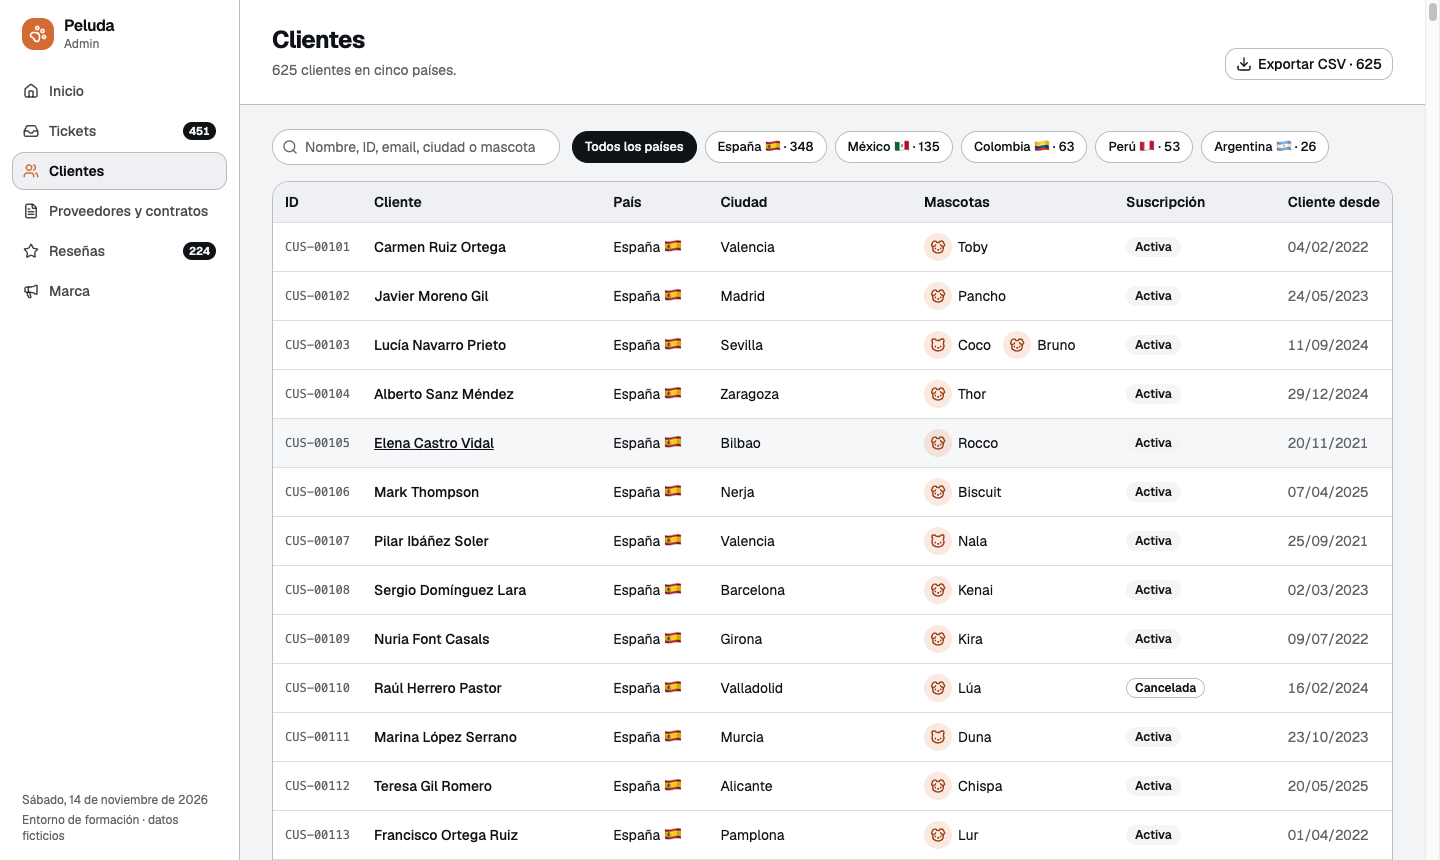
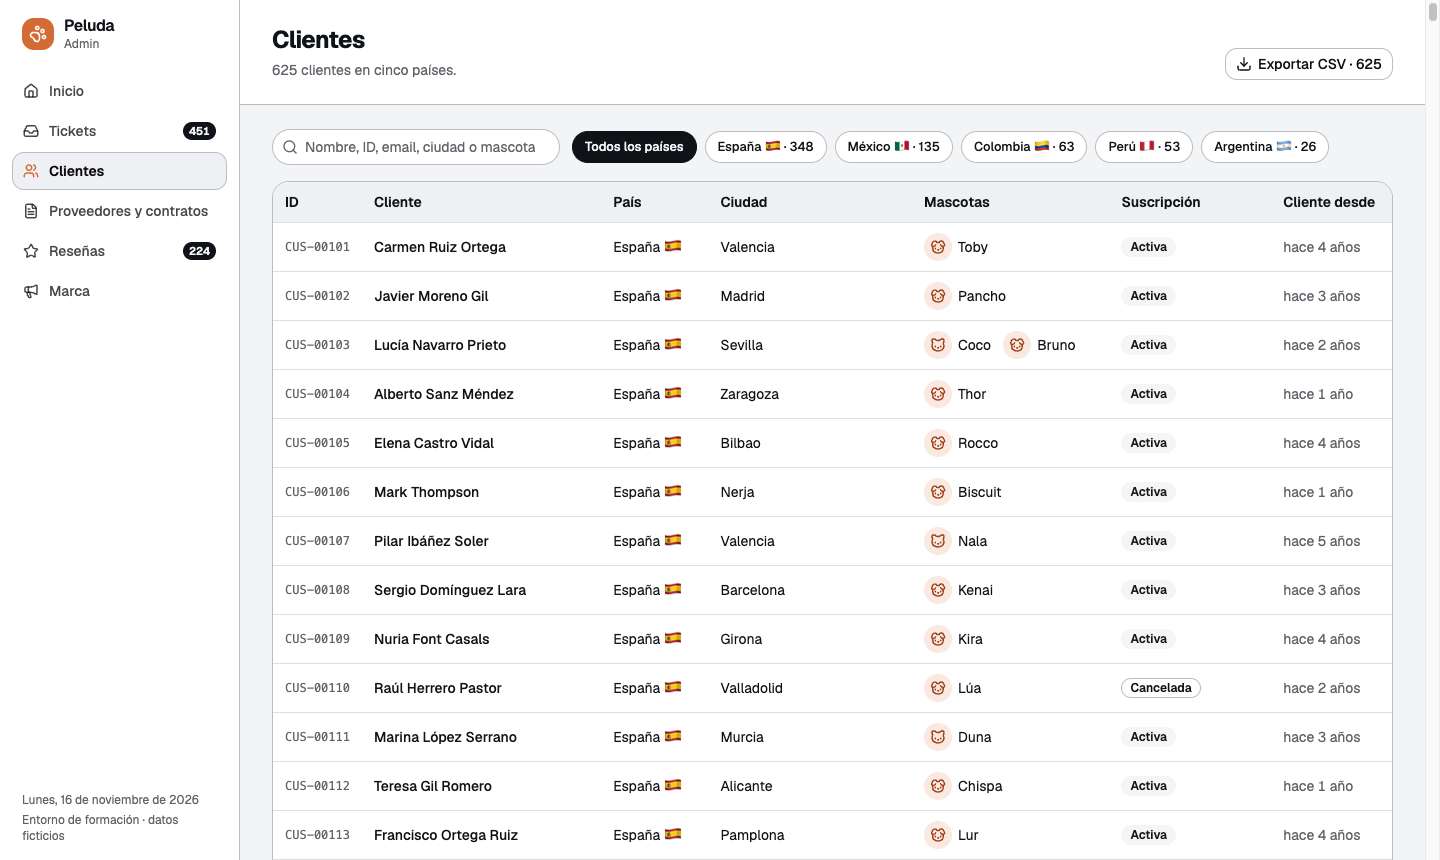
docs: follow the CMS relative dates in session 1
Retake the six CMS captures (relative times, last-24-hours filter, dateless
ticket IDs) and point the notes at the «Últimas 24 h» filter (201 tickets)
and TCK-0009, which no longer changes with the day.

diff --git a/session-1/01-two-prompts.md b/session-1/01-two-prompts.md
@@ -18,7 +18,7 @@ layout: two-cols
 ## Prompt de una línea
 
 ```text
-📎 peluda-tickets-hoy.csv
+📎 peluda-tickets-ultimas-24h.csv
 
 Clasifica estos tickets.
 ```
@@ -30,7 +30,7 @@ Clasifica estos tickets.
 ## Prompt estructurado
 
 ```text
-📎 peluda-tickets-hoy.csv
+📎 peluda-tickets-ultimas-24h.csv
 
 <rol>Responsable de atención al cliente</rol>
 <contexto>Suscripción cada 4 semanas, 3 planes.
@@ -45,7 +45,7 @@ Categorías: Envío, Facturación… Urgencia: Alta…</formato>
 
 <!--
 Prompt A (probado el 14/11 con Opus 5.5, 151 tickets): lo hace bien, pero con SU esquema. Avisa: «No tenías un esquema propio, así que he usado este». 4 prioridades (Urgente/Alta/Normal/Baja) y ~25 categorías inventadas (Retención, Nutrición, Datos RGPD…): mañana serán otras, no se pueden contar ni comparar. Y cae en la trampa del 0009: lo junta con el 0033 como «fallo en una tanda de cobros», cuando Lucía tiene dos suscripciones.
-Los dos con el mismo CSV: la bandeja de hoy exportada del CMS (Tickets → Hoy → Exportar CSV, 151 tickets). Que vean el formato inconsistente frente a la tabla. Prompts en demos/sesion-1/01-dos-prompts.md.
+Los dos con el mismo CSV: la bandeja de las últimas 24 h exportada del CMS (Tickets → Últimas 24 h → Exportar CSV, 201 tickets; las capturas son del 14/11, con 151). Que vean el formato inconsistente frente a la tabla. Prompts en demos/sesion-1/01-dos-prompts.md.
 No explicar nada todavía.
 -->
 
@@ -169,7 +169,7 @@ España, México, Colombia, Perú y Argentina. 17.564 suscriptores.
 <!--
 Tour de 2 minutos en el CMS en directo (no en la slide):
 1. Inicio: 451 tickets sin clasificar y 224 reseñas sin responder. «Este es el lunes de este equipo».
-2. Tickets → filtro Hoy: 151 tickets. Botón «Exportar CSV»: así sacaremos los datos para la IA.
+2. Tickets → filtro Últimas 24 h: 201 tickets. Botón «Exportar CSV»: así sacaremos los datos para la IA.
 3. Abrir un ticket (por ejemplo, el 0009 «Me habéis cobrado dos veces»): cliente, mascotas, pedidos. «Copiar para el prompt».
 4. Proveedores: NutriCan «vence pronto» (spoiler del caso 2).
 5. Reseñas: 224 sin responder (caso 3, sesión 2).

diff --git a/session-1/05-guided-practice.md b/session-1/05-guided-practice.md
@@ -24,7 +24,7 @@ Un ticket, tres prompts
 </div>
 <div class="topic-list">
   <TopicRow title="1" icon="i-ph-browser-fill">abre el CMS de Peluda</TopicRow>
-  <TopicRow title="2" icon="i-ph-tray-fill">Tickets → Hoy → «Me habéis cobrado dos veces»</TopicRow>
+  <TopicRow title="2" icon="i-ph-tray-fill">Tickets → Últimas 24 h → «Me habéis cobrado dos veces»</TopicRow>
   <TopicRow title="3" icon="i-ph-chat-circle-text-fill">prueba los tres prompts en Claude o ChatGPT</TopicRow>
   <TopicRow title="4" icon="i-ph-paper-plane-tilt-fill">pega en el chat de la clase la respuesta que más te guste</TopicRow>
 </div>
@@ -32,7 +32,7 @@ Un ticket, tres prompts
 
 <p class="text-center text-lg font-semibold mt-6"><a href="https://inesdi-2026-peluda-admin.vercel.app/" class="inline-flex items-center gap-2 !border-none"><ph-link-bold /> inesdi-2026-peluda-admin.vercel.app</a></p>
 
-<!-- La fecha del mensaje y el ID del ticket cambian con el día: el CMS mueve todo a hoy. Buscad el asunto, no el ID. -->
+<!-- El ID ya no lleva fecha: es TCK-0009 cualquier día. Las fechas sí son relativas a hoy («hace 10 horas»). -->
 
 ---
 clicks: 1

diff --git a/session-1/04-hallucinations.md b/session-1/04-hallucinations.md
@@ -79,7 +79,7 @@ Por qué pasan y cómo reducirlas
 </style>
 
 <!--
-A: antes de señalarlo, pregunta a la clase: «¿Veis algo raro?». Casi todo es verdad (6.1, 6.2, 6.3, las clínicas de México, la fecha del 28/02/2027).
+A: antes de señalarlo, pregunta a la clase: «¿Veis algo raro?». Casi todo es verdad (6.1, 6.2, 6.3, las clínicas de México, la fecha de vencimiento, a final de febrero).
 El fallo: «la cláusula 10.2 exige que cualquier cambio sea expreso y por escrito». La 10.2 dice: «Las Partes podrán renovarlo por acuerdo expreso y por escrito».
 B (chat nuevo, misma pregunta + «Cita literalmente cada cláusula que mencionas.»): las cuatro citas (6.1, 6.2, 6.3, 4.1) son literales, comprobadas contra el contrato, y desaparece la 10.2.
 Mensaje: los modelos buenos ya no se inventan la cláusula entera; se inventan el detalle, dentro de una respuesta correcta en un 95 %. Pedir la cita literal lo ata al texto y lo hace comprobable.
